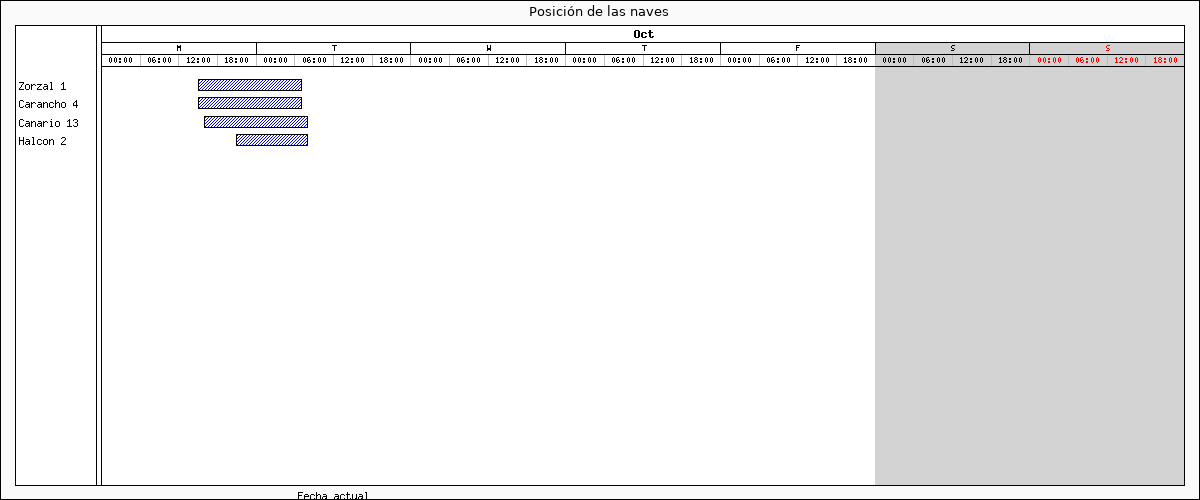
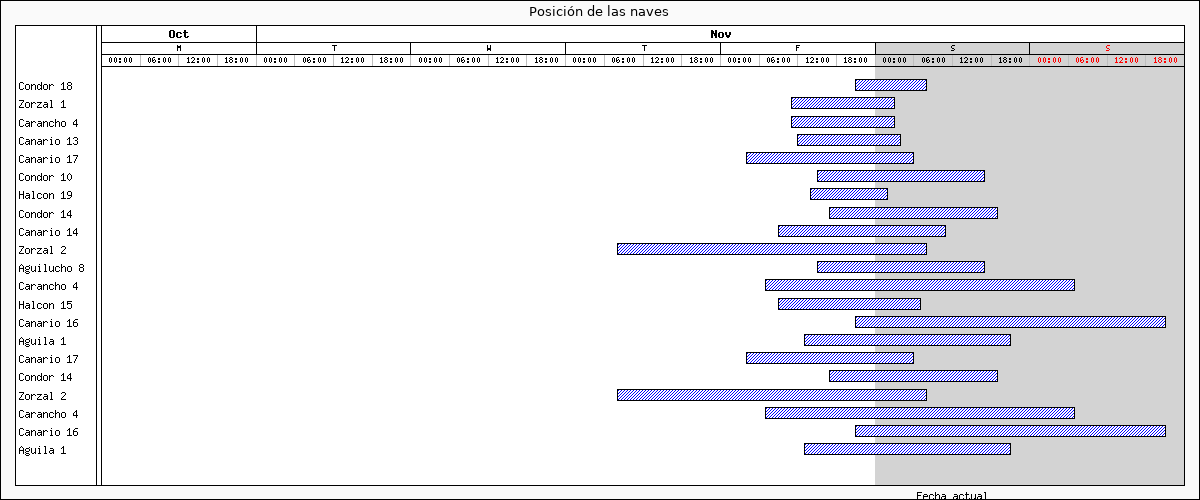
tamaño automatico al grafico de gantt

diff --git a/controller/PositionController.php b/controller/PositionController.php
@@ -43,7 +43,7 @@ class PositionController extends BaseController
         // id, nombre, fechasalida, origen, fechallegada, destino
         require_once('./third-party/jpgraph/src/jpgraph.php');
         require_once('./third-party/jpgraph/src/jpgraph_gantt.php');
-        $graph = new GanttGraph(1200, 500);
+        $graph = new GanttGraph();
 
         $graph->title->Set("Posición de las naves");
         $graph->ShowHeaders(GANTT_HHOUR | GANTT_HDAY | GANTT_HMONTH);
